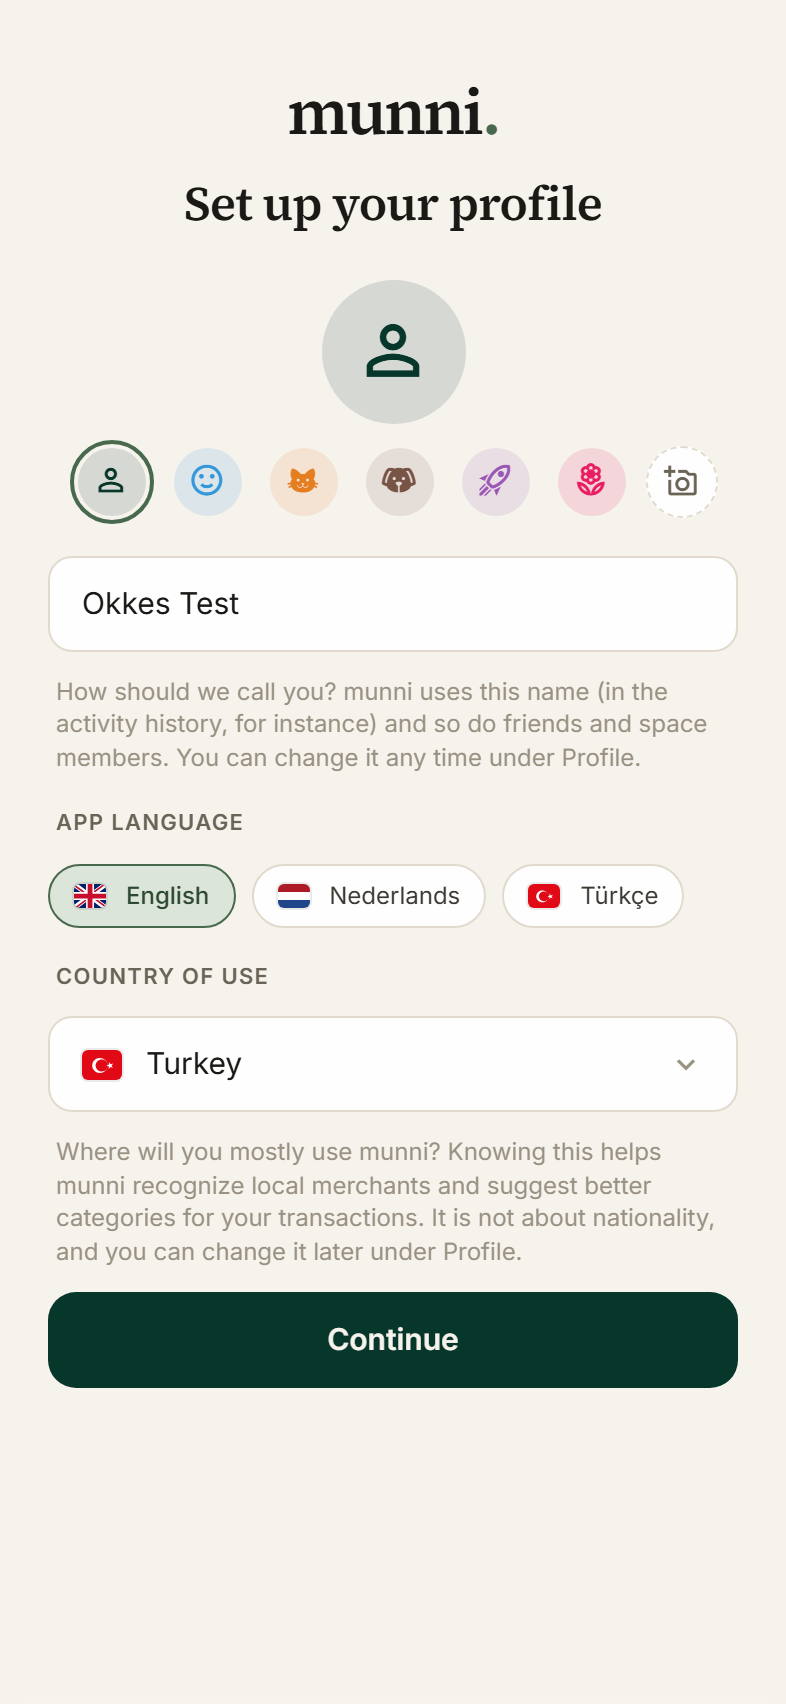
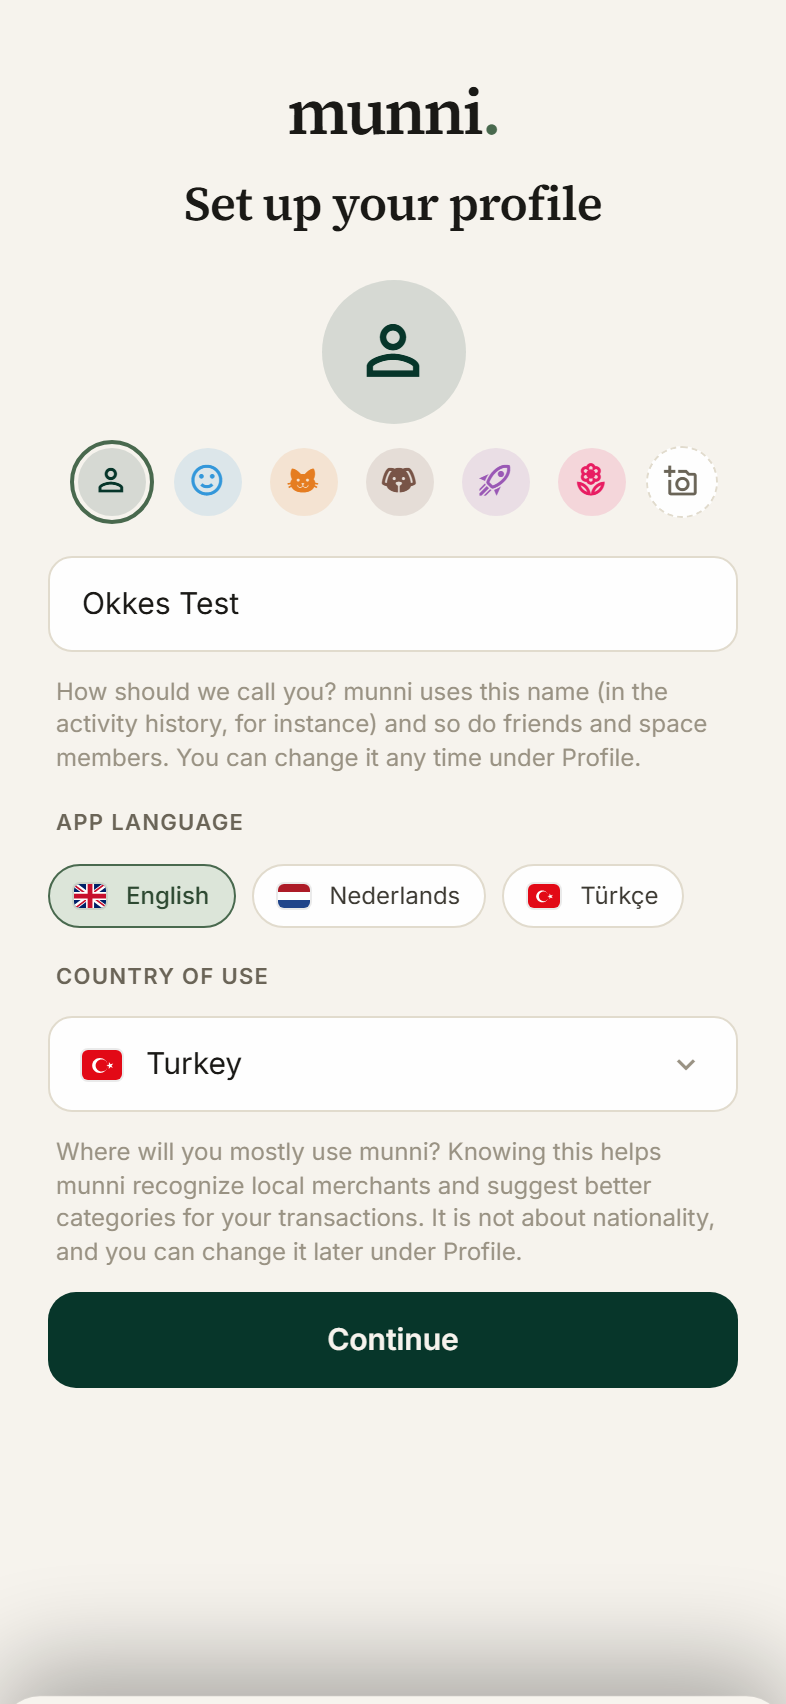
feat(statements): PayPal activity-export importer + speak-up apply cycles
PayPal CSV joins CAMT.053 and ING in the one parseStatement door
(detected by early-header names -- "Balance Impact" sits past the
500-char sniff window). Only real payments import: funding legs ("Bank
Deposit to PP Account"), authorization Memo rows and conversion legs
are PayPal bookkeeping, not money moving. A foreign-currency charge
imports at its same-day settlement leg in the account currency, with
the original amount kept in the description. Accounts are IBAN-less:
a deterministic key from the owner email keeps every export of one
PayPal login converging on one account; the Transaction ID column
gives exact dedupe refs. Verified against the user's real 2026 export
(22 payments, USD charge lands as its EUR cost, closing balance 0).

deploy: apply.sh now always prints one status line to stdout (visible
in the DSM Run Result) -- a skipped or idle cycle no longer looks
identical to a dead one; guide mentions the new format.

Changed region(s): [[0.0, 0.9642, 1.0, 1.0]]

diff --git a/apps/web/src/lib/statements/paypal.ts b/apps/web/src/lib/statements/paypal.ts
@@ -1,0 +1,204 @@
+import { euAmountToCents, parseCsv } from './csv';
+import type { CamtEntry } from '@/lib/camt053/parse';
+import type { ParsedStatement } from './ing';
+
+/**
+ * PayPal activity exports (Reports → Activity download, CSV). Verified
+ * against the user's real 2026 export: comma-separated, quoted headers,
+ * EU decimal commas, DD/MM/YYYY dates, and a BOM up front.
+ *
+ * A PayPal export mixes real payments with PayPal's own bookkeeping:
+ * every purchase is followed by a "Bank Deposit to PP Account" funding
+ * leg (the bank tops the balance back to zero), card authorizations
+ * appear as Memo rows, and cross-currency charges add a pair of
+ * "General Currency Conversion" legs. Only the real payments import:
+ *
+ * - Status must be Completed and Balance Impact Debit/Credit (Memo rows
+ *   are authorizations/holds, never money moving).
+ * - Internal types (funding legs, conversions, holds) are skipped.
+ * - A payment in a foreign currency imports at the amount of its
+ *   same-day Completed conversion leg in the account's main currency —
+ *   that is what the purchase actually cost; the original amount stays
+ *   in the description.
+ *
+ * PayPal accounts have no IBAN: a stable synthetic id derived from the
+ * owner's email keeps re-imports and multi-file imports on one account.
+ * The "Transaction ID" column is a true bank-side ref — dedupe is exact.
+ */
+
+const INTERNAL_TYPES = new Set([
+  'Bank Deposit to PP Account',
+  'General Currency Conversion',
+  'General Authorization',
+  'General Card Deposit',
+  'General Account Hold',
+  'Reversal of General Account Hold',
+]);
+
+/** detected by header names that sit INSIDE the 500-char sniff window
+ *  ("Balance Impact" ends the ~600-char header and falls outside it) */
+export const looksLikePaypalCsv = (head: string): boolean =>
+  head.includes('"TimeZone"') && head.includes('"Gross"') && head.includes('"Fee"');
+
+/** "06/01/2026" → "2026-01-06" (PayPal exports are DD/MM/YYYY) */
+const paypalDate = (raw: string): string | null => {
+  const m = /^(\d{2})\/(\d{2})\/(\d{4})$/.exec(raw.trim());
+  return m ? `${m[3]}-${m[2]}-${m[1]}` : null;
+};
+
+interface PaypalRow {
+  date: string;
+  type: string;
+  status: string;
+  currency: string;
+  netCents: number;
+  balanceCents: number | null;
+  impact: string;
+  name: string;
+  fromEmail: string;
+  toEmail: string;
+  txId: string;
+  subject: string;
+  note: string;
+  itemTitle: string;
+}
+
+function readRows(content: string): PaypalRow[] {
+  const rows = parseCsv(content.replace(/^/, ''), ',');
+  const header = rows[0].map((h) => h.trim());
+  const col = (name: string) => header.indexOf(name);
+  const iDate = col('Date');
+  const iType = col('Type');
+  const iStatus = col('Status');
+  const iCurrency = col('Currency');
+  const iNet = col('Net');
+  const iBalance = col('Balance');
+  const iImpact = col('Balance Impact');
+  const iName = col('Name');
+  const iFrom = col('From Email Address');
+  const iTo = col('To Email Address');
+  const iTx = col('Transaction ID');
+  const iSubject = col('Subject');
+  const iNote = col('Note');
+  const iItem = col('Item Title');
+
+  const out: PaypalRow[] = [];
+  for (const raw of rows.slice(1)) {
+    const date = paypalDate(raw[iDate] ?? '');
+    const netCents = euAmountToCents(raw[iNet] ?? '');
+    if (!date || netCents === null) continue;
+    out.push({
+      date,
+      type: (raw[iType] ?? '').trim(),
+      status: (raw[iStatus] ?? '').trim(),
+      currency: (raw[iCurrency] ?? '').trim() || 'EUR',
+      netCents,
+      balanceCents: euAmountToCents(raw[iBalance] ?? ''),
+      impact: (raw[iImpact] ?? '').trim(),
+      name: (raw[iName] ?? '').trim(),
+      fromEmail: (raw[iFrom] ?? '').trim(),
+      toEmail: (raw[iTo] ?? '').trim(),
+      txId: (raw[iTx] ?? '').trim(),
+      subject: (raw[iSubject] ?? '').trim(),
+      note: (raw[iNote] ?? '').trim(),
+      itemTitle: (raw[iItem] ?? '').trim(),
+    });
+  }
+  return out;
+}
+
+/** the account owner appears on every row — payer on debits, payee on credits */
+function ownerEmail(rows: PaypalRow[]): string {
+  const counts = new Map<string, number>();
+  for (const row of rows) {
+    const own = row.netCents < 0 ? row.fromEmail : row.toEmail;
+    if (own) counts.set(own, (counts.get(own) ?? 0) + 1);
+  }
+  let best = '';
+  let bestCount = 0;
+  for (const [email, count] of counts) {
+    if (count > bestCount) {
+      best = email;
+      bestCount = count;
+    }
+  }
+  return best;
+}
+
+/** most frequent currency across the whole file = the account's currency */
+function mainCurrency(rows: PaypalRow[]): string {
+  const counts = new Map<string, number>();
+  for (const row of rows) counts.set(row.currency, (counts.get(row.currency) ?? 0) + 1);
+  let best = 'EUR';
+  let bestCount = 0;
+  for (const [currency, count] of counts) {
+    if (count > bestCount) {
+      best = currency;
+      bestCount = count;
+    }
+  }
+  return best;
+}
+
+export function parsePaypalCsv(content: string): ParsedStatement[] {
+  const rows = readRows(content);
+  const currency = mainCurrency(rows);
+  const owner = ownerEmail(rows);
+  // no IBAN exists: a deterministic id keeps every export of this
+  // PayPal account converging on ONE app account (feeds dedupe by iban)
+  const iban = `PAYPAL${owner.toUpperCase().replaceAll(/[^A-Z0-9]/g, '')}`;
+
+  const payments = rows.filter(
+    (row) => row.status === 'Completed' && row.impact !== 'Memo' && !INTERNAL_TYPES.has(row.type),
+  );
+  // Completed conversion legs in the main currency, claimable once each:
+  // a foreign-currency charge imports at what it actually cost
+  const conversions = rows.filter(
+    (row) => row.status === 'Completed' && row.type === 'General Currency Conversion' && row.currency === currency,
+  );
+
+  const entries: CamtEntry[] = [];
+  for (const row of payments) {
+    let amountCents = row.netCents;
+    let converted = '';
+    if (row.currency !== currency) {
+      const legIndex = conversions.findIndex(
+        (leg) => leg.date === row.date && Math.sign(leg.netCents) === Math.sign(row.netCents),
+      );
+      if (legIndex < 0) continue; // no settlement leg — not money from this account
+      amountCents = conversions[legIndex].netCents;
+      conversions.splice(legIndex, 1);
+      converted = ` (${(Math.abs(row.netCents) / 100).toFixed(2)} ${row.currency})`;
+    }
+    const counterEmail = row.netCents < 0 ? row.toEmail : row.fromEmail;
+    const description = [row.type, row.itemTitle, row.subject, row.note, counterEmail]
+      .filter(Boolean)
+      .join(' · ')
+      .concat(converted);
+    entries.push({
+      amountCents,
+      currency,
+      date: row.date,
+      counterpartyName: row.name || counterEmail || undefined,
+      description,
+      ref: `paypal:${row.txId}`,
+    });
+  }
+
+  // the newest running balance in the main currency is the closing one
+  // (PayPal auto-funding usually parks it back at zero)
+  const newestFirst = [...rows].reverse();
+  const closing = newestFirst.find((row) => row.currency === currency && row.balanceCents !== null);
+
+  return [
+    {
+      iban,
+      currency,
+      closingBalanceCents: closing?.balanceCents ?? null,
+      balanceAsOf: closing?.date ?? null,
+      entries,
+      accountType: 'checking',
+      accountName: owner ? `PayPal ${owner}` : 'PayPal',
+    },
+  ];
+}

diff --git a/apps/web/src/lib/statements/parseStatement.test.ts b/apps/web/src/lib/statements/parseStatement.test.ts
@@ -197,3 +197,64 @@ describe('parseStatement — English variants + balance files (real 2026 exports
     expect(stmt.iban).toBe('');
   });
 });
+
+describe('parseStatement — PayPal activity export', () => {
+  const HDR =
+    '"Date","Time","TimeZone","Name","Type","Status","Currency","Gross","Fee","Net","From Email Address","To Email Address","Transaction ID","Shipping Address","Address Status","Item Title","Item ID","Shipping and Handling Amount","Insurance Amount","Sales Tax","Option 1 Name","Option 1 Value","Option 2 Name","Option 2 Value","Reference Txn ID","Invoice Number","Custom Number","Quantity","Receipt ID","Balance","Address Line 1","Address Line 2/District/Neighborhood","Town/City","State/Province/Region/County/Territory/Prefecture/Republic","Zip/Postal Code","Country","Contact Phone Number","Subject","Note","Country Code","Balance Impact"';
+  const row = (
+    date: string,
+    name: string,
+    type: string,
+    status: string,
+    currency: string,
+    net: string,
+    from: string,
+    to: string,
+    tx: string,
+    balance: string,
+    impact: string,
+    item = '',
+  ) =>
+    `"${date}","12:00:00","CET","${name}","${type}","${status}","${currency}","${net}","0,00","${net}","${from}","${to}","${tx}","","","${item}","","","","","","","","","","","","","","${balance}","","","","","","","","","","","${impact}"`;
+
+  const ME = 'me@example.com';
+  const PAYPAL = [
+    HDR,
+    row('06/01/2026', 'Acme Music', 'PreApproved Payment Bill User Payment', 'Completed', 'EUR', '-23,00', ME, 'billing@acme.example', 'TX1', '-23,00', 'Debit', 'Music Plus'),
+    // the funding leg that tops the balance back up — never a transaction
+    row('06/01/2026', '', 'Bank Deposit to PP Account ', 'Pending', 'EUR', '23,00', '', '', 'TX2', '0,00', 'Credit'),
+    // an authorization hold: Memo rows are not money moving
+    row('16/02/2026', 'Card Corp', 'General Authorization', 'Pending', 'EUR', '-34,99', ME, 'pay@card.example', 'TX3', '0,00', 'Memo'),
+    // a USD charge settles through a same-day EUR conversion leg
+    row('19/06/2026', 'Octo Devtools', 'PreApproved Payment Bill User Payment', 'Completed', 'USD', '-48,00', ME, 'billing@octo.example', 'TX4', '-48,00', 'Debit'),
+    row('19/06/2026', '', 'Bank Deposit to PP Account ', 'Pending', 'EUR', '43,67', '', '', 'TX5', '43,67', 'Credit'),
+    row('19/06/2026', '', 'General Currency Conversion', 'Completed', 'EUR', '-43,67', '', '', 'TX6', '0,00', 'Debit'),
+    row('19/06/2026', '', 'General Currency Conversion', 'Completed', 'USD', '48,00', '', '', 'TX7', '0,00', 'Credit'),
+    // money received stays positive and keeps its sender
+    row('24/06/2026', 'A Friend', 'General Payment', 'Completed', 'EUR', '12,50', 'friend@example.com', ME, 'TX8', '12,50', 'Credit'),
+  ].join('\n');
+
+  it('imports only real payments, converts foreign charges, keys one synthetic account', () => {
+    const [stmt] = parseStatement(PAYPAL);
+    // one stable IBAN-less account per PayPal login
+    expect(stmt.iban).toBe('PAYPALMEEXAMPLECOM');
+    expect(stmt.accountName).toBe(`PayPal ${ME}`);
+    expect(stmt.currency).toBe('EUR');
+
+    expect(stmt.entries.map((e) => e.ref)).toEqual(['paypal:TX1', 'paypal:TX4', 'paypal:TX8']);
+    const [music, octo, friend] = stmt.entries;
+    expect(music.amountCents).toBe(-2300);
+    expect(music.counterpartyName).toBe('Acme Music');
+    expect(music.description).toContain('Music Plus');
+    // the USD charge imports at its EUR settlement cost, original noted
+    expect(octo.amountCents).toBe(-4367);
+    expect(octo.currency).toBe('EUR');
+    expect(octo.description).toContain('48.00 USD');
+    expect(friend.amountCents).toBe(1250);
+    expect(friend.counterpartyName).toBe('A Friend');
+
+    // newest EUR running balance becomes the closing balance
+    expect(stmt.closingBalanceCents).toBe(1250);
+    expect(stmt.balanceAsOf).toBe('2026-06-24');
+  });
+});

diff --git a/apps/web/public/guide/index.html b/apps/web/public/guide/index.html
@@ -67,7 +67,7 @@
 
   <section id="banks">
     <h2>Connecting your bank</h2>
-    <p>Settings → Global settings → Financial Accounts. Connect a bank (read-only PSD2 access — munni can never move money), import statements (CAMT.053 or ING CSV — several files at once) for accounts your bank won't share, or add cash/savings accounts manually. Bank data lands once per account; each space picks its accounts on its own Financial accounts screen — attach an existing account there with a start date, or detach it when the space no longer needs it. A freshly connected account that isn't visible in any space yet offers a one-tap attach to your active space.</p>
+    <p>Settings → Global settings → Financial Accounts. Connect a bank (read-only PSD2 access — munni can never move money), import statements (CAMT.053, ING CSV or a PayPal activity export — several files at once) for accounts your bank won't share, or add cash/savings accounts manually. Bank data lands once per account; each space picks its accounts on its own Financial accounts screen — attach an existing account there with a start date, or detach it when the space no longer needs it. A freshly connected account that isn't visible in any space yet offers a one-tap attach to your active space.</p>
     <ul class="tips"><li>New transactions arrive automatically several times a day.</li>
 <li>Reserved (not yet booked) card payments show with a badge and disappear when the real booking lands.</li>
 <li>Each account row shows when the bank last answered — a Reconnect hint appears when a consent has gone quiet.</li></ul>

diff --git a/apps/web/src/lib/statements/parseStatement.ts b/apps/web/src/lib/statements/parseStatement.ts
@@ -1,5 +1,6 @@
 import { parseCamt053 } from '@/lib/camt053/parse';
 import { parseIngBalanceCsv, parseIngCreditcardCsv, parseIngCurrentCsv, parseIngSavingsCsv } from './ing';
+import { looksLikePaypalCsv, parsePaypalCsv } from './paypal';
 import type { ParsedStatement } from './ing';
 
 export type { ParsedStatement };
@@ -19,6 +20,9 @@ export function parseStatement(content: string, fileName?: string): ParsedStatem
 
   if (head.trimStart().startsWith('<')) {
     return parseCamt053(content); // CAMT.053 XML (ASN, SNS, Rabo, ING business…)
+  }
+  if (looksLikePaypalCsv(head)) {
+    return parsePaypalCsv(content); // PayPal activity export
   }
   // every ING shape ships in Dutch AND English (verified against real
   // 2026 exports) — detection checks both header sets
